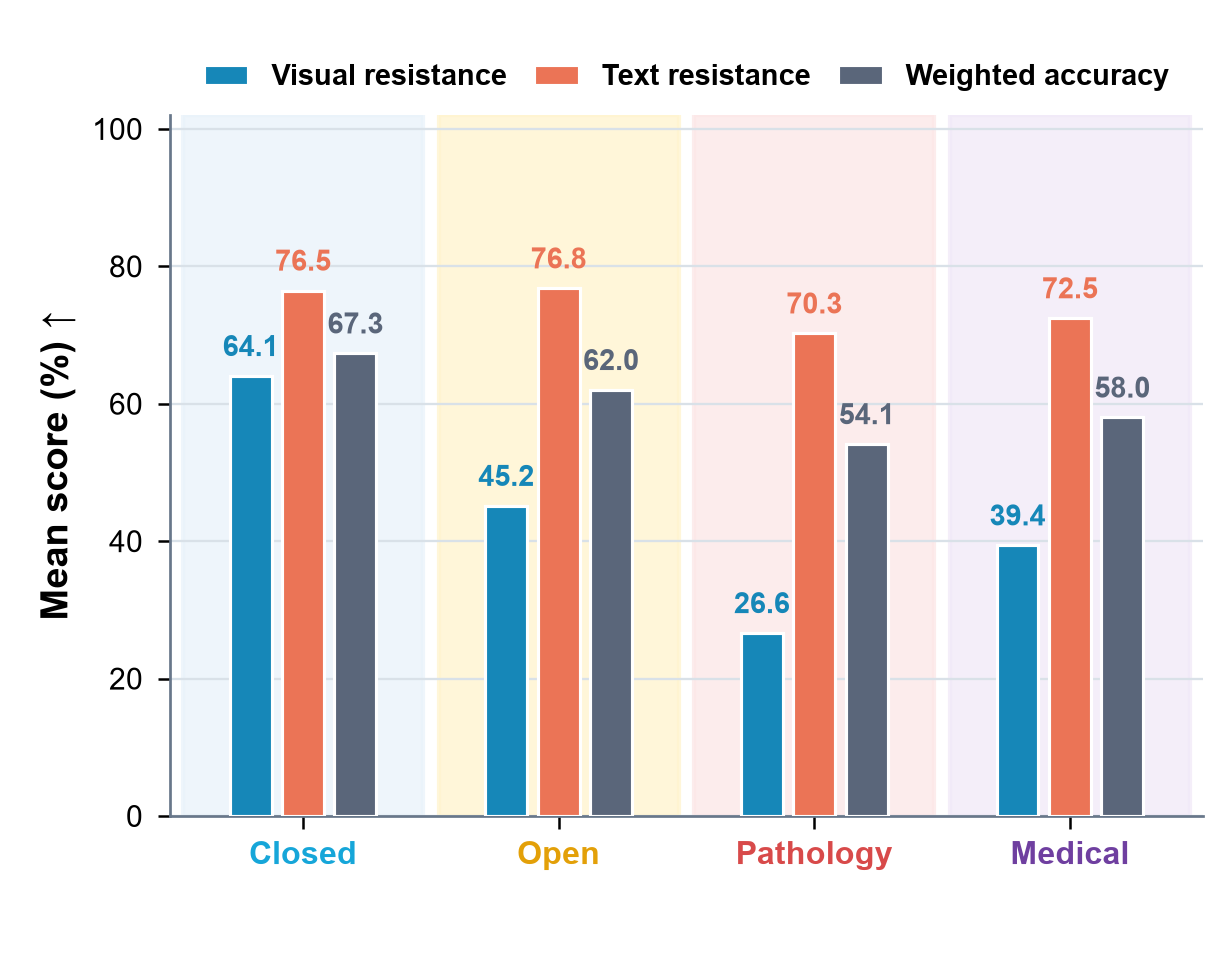
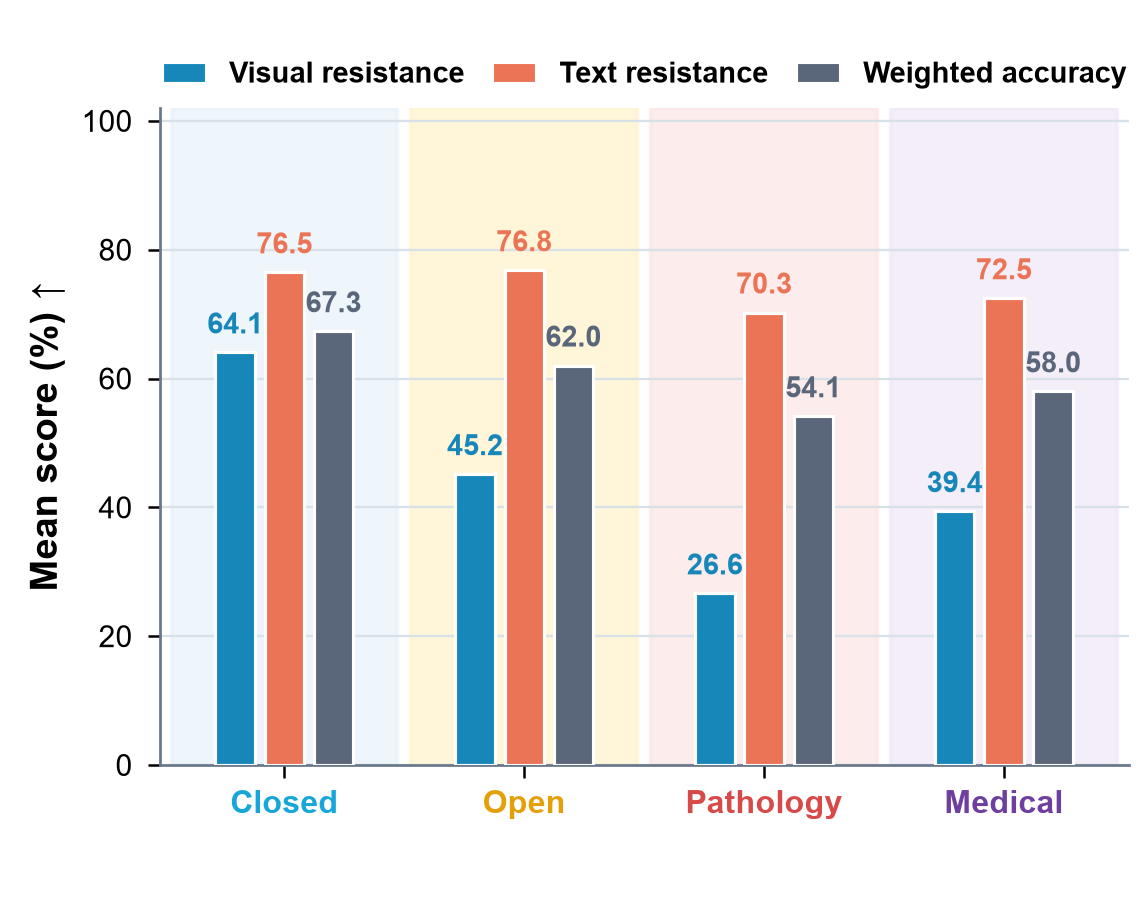
Refresh A4 figures with weighted micro-accuracy

diff --git a/README.md b/README.md
@@ -119,7 +119,7 @@ Together, the two result figures show that apparently similar endpoint accuracy 
 
 <p align="center">
   <img src="assets/three_axis_pareto.png" width="100%" alt="Three-axis Pareto landscape of visual resistance, textual resistance, and dataset-weighted accuracy"><br>
-  <sub>Visual resistance × textual resistance × clinician-weighted dataset accuracy. Highlighted surfaces denote the first two Pareto layers.</sub>
+  <sub>Visual resistance × textual resistance × clinician-weighted micro-accuracy across the four source datasets. Highlighted surfaces denote the first two Pareto layers.</sub>
 </p>
 
 The three-axis view preserves the three coordinates instead of compressing them into one headline score. The Pareto layers identify competitive trade-offs and make visible whether an apparently strong model is limited by perception, textual robustness, or baseline diagnostic performance.
